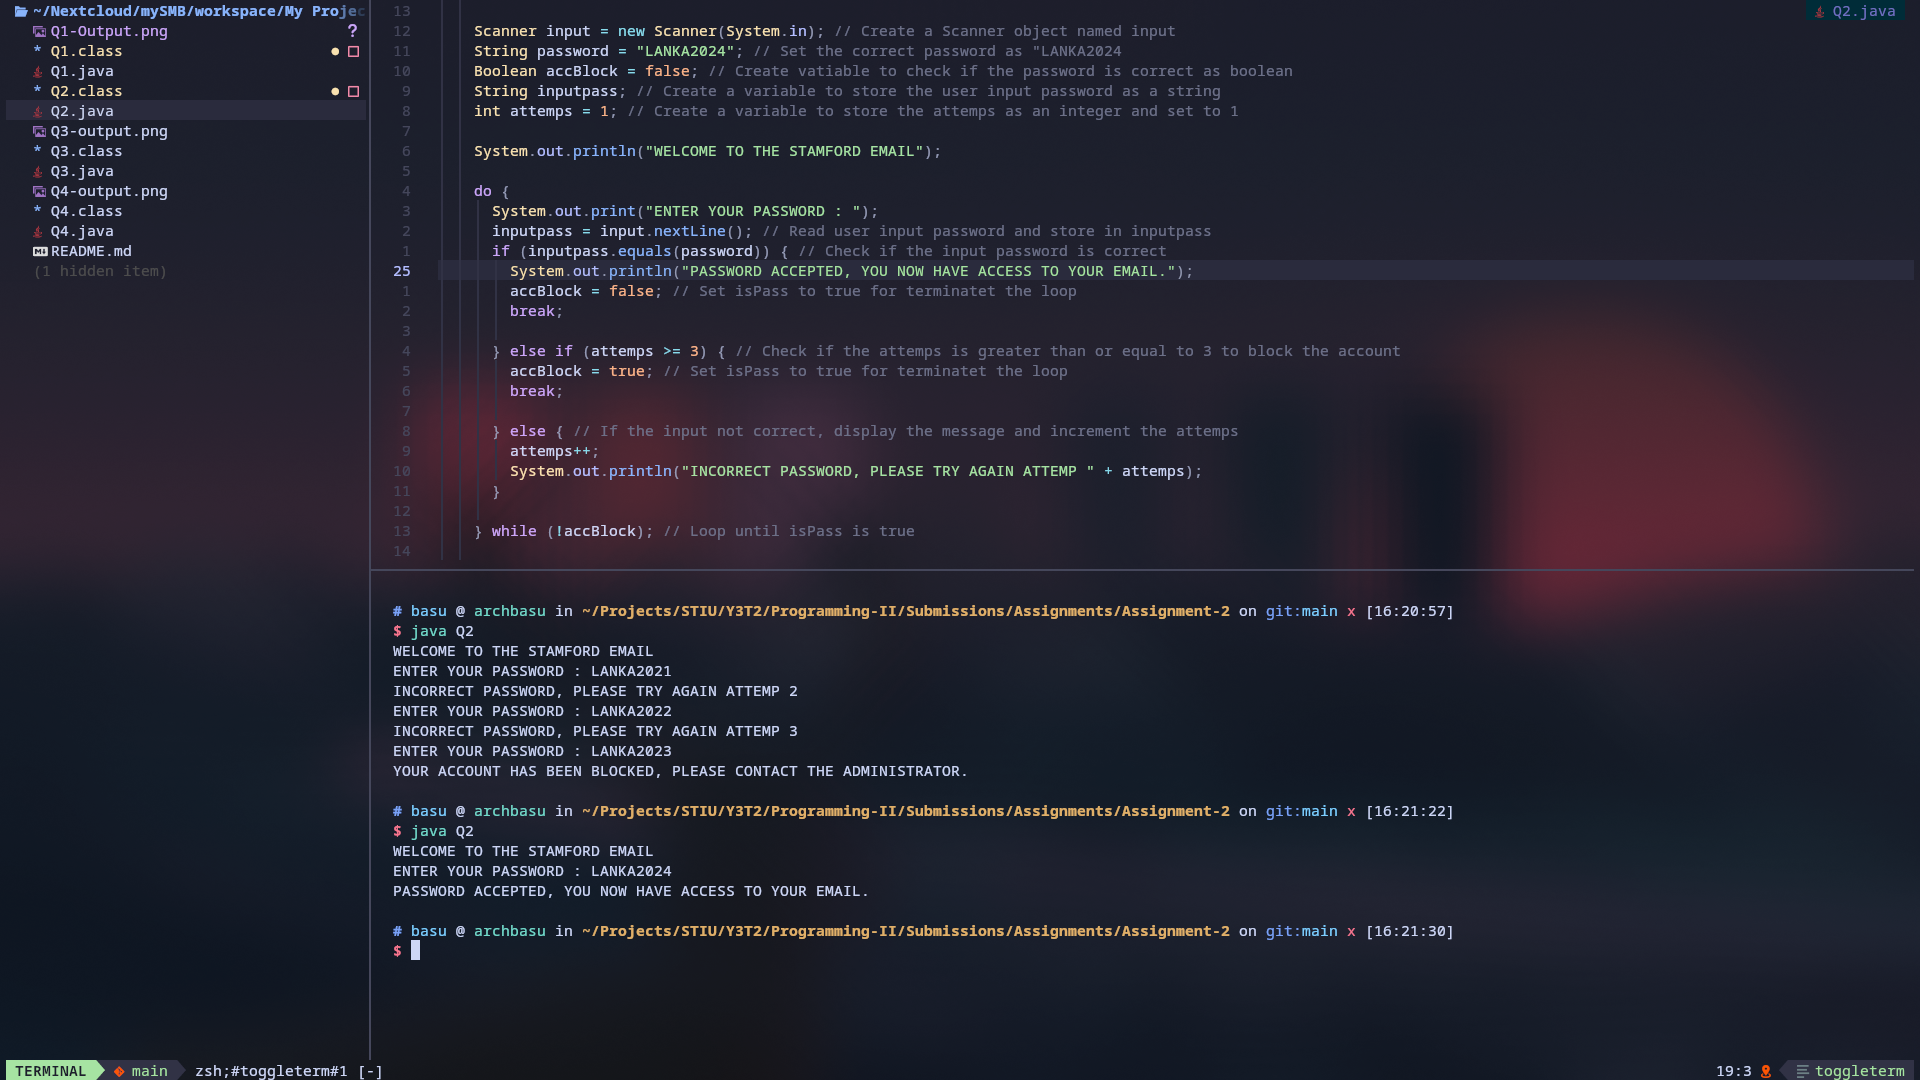
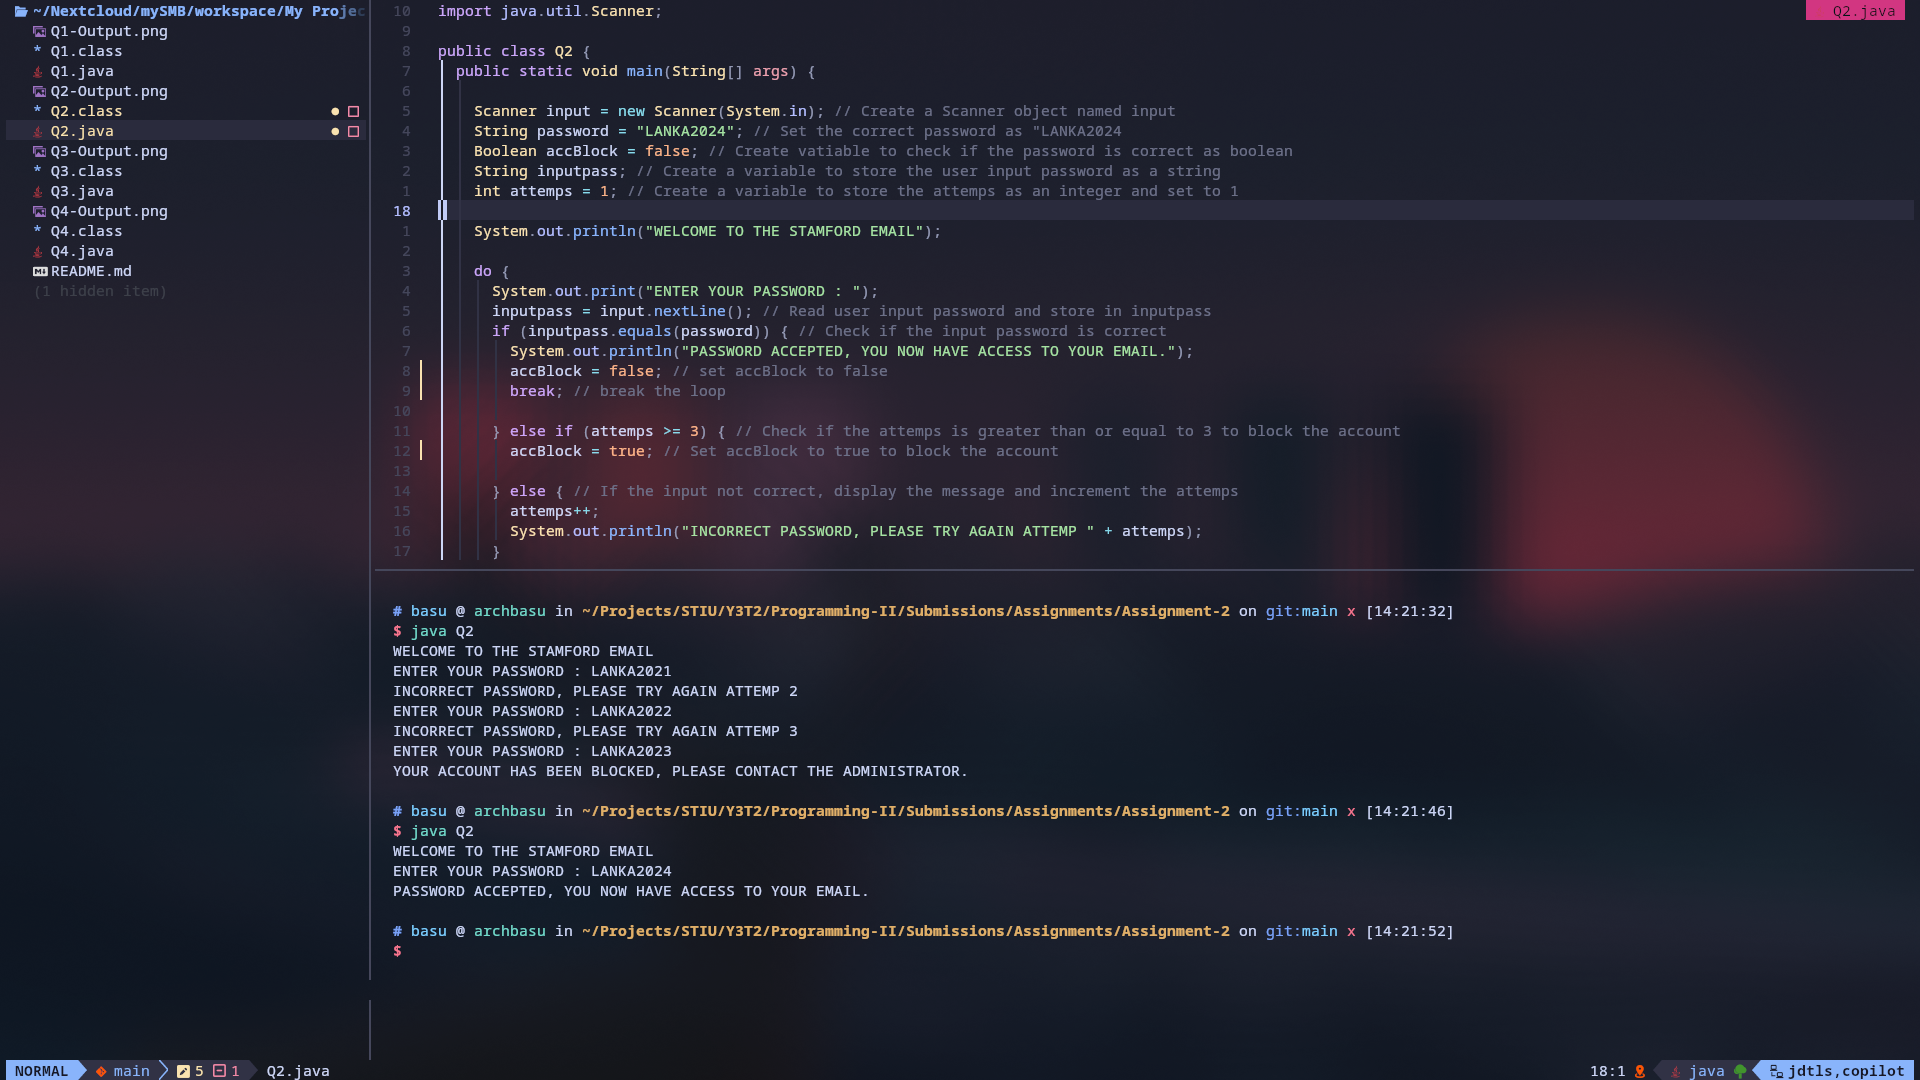
Update comment and screenshot

diff --git a/Q2.java b/Q2.java
@@ -23,21 +23,20 @@ public class Q2 {
       inputpass = input.nextLine(); // Read user input password and store in inputpass
       if (inputpass.equals(password)) { // Check if the input password is correct
         System.out.println("PASSWORD ACCEPTED, YOU NOW HAVE ACCESS TO YOUR EMAIL.");
-        accBlock = false; // Set isPass to true for terminatet the loop
-        break;
+        accBlock = false; // set accBlock to false
+        break; // break the loop
 
       } else if (attemps >= 3) { // Check if the attemps is greater than or equal to 3 to block the account
-        accBlock = true; // Set isPass to true for terminatet the loop
-        break;
+        accBlock = true; // Set accBlock to true to block the account
 
       } else { // If the input not correct, display the message and increment the attemps
         attemps++;
         System.out.println("INCORRECT PASSWORD, PLEASE TRY AGAIN ATTEMP " + attemps);
       }
 
-    } while (!accBlock); // Loop until isPass is true
+    } while (!accBlock); // Loop until accBlock is true
 
-    if (accBlock) { // Check if the account is blocked}
+    if (accBlock) { // Check if accBlock is true to display the message
       System.out.println("YOUR ACCOUNT HAS BEEN BLOCKED, PLEASE CONTACT THE ADMINISTRATOR.");
     }
 
